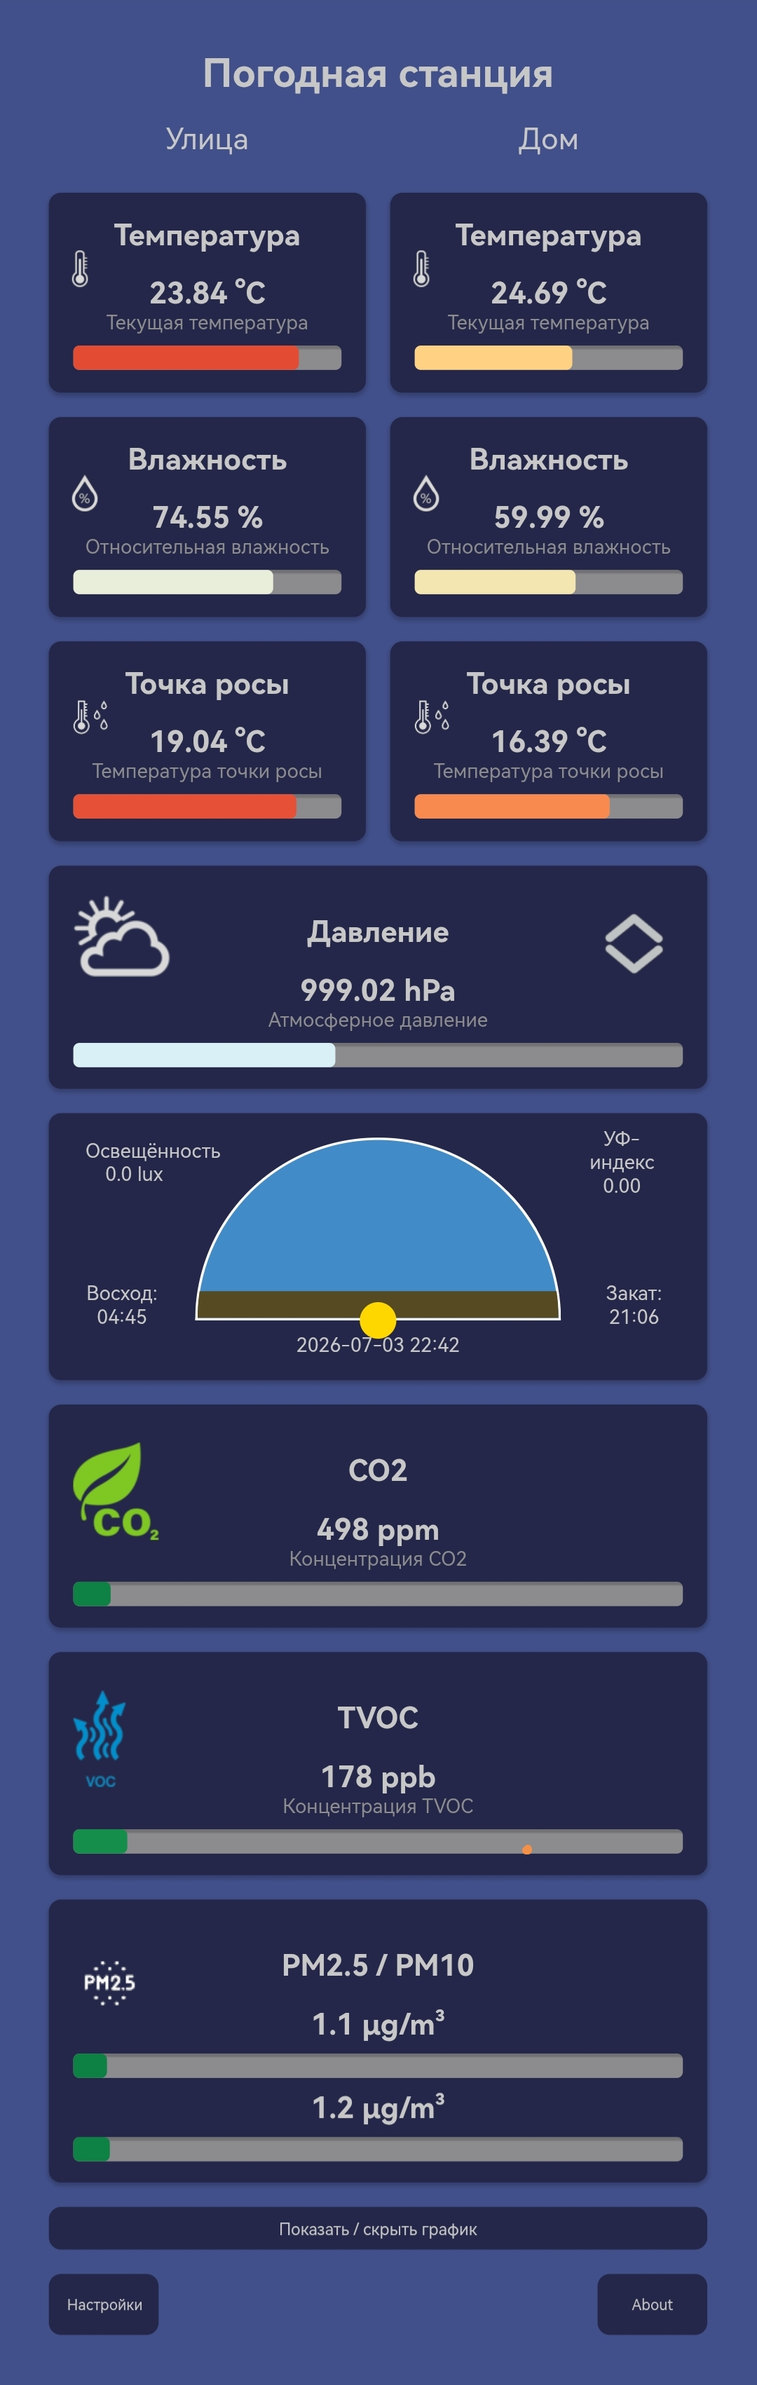
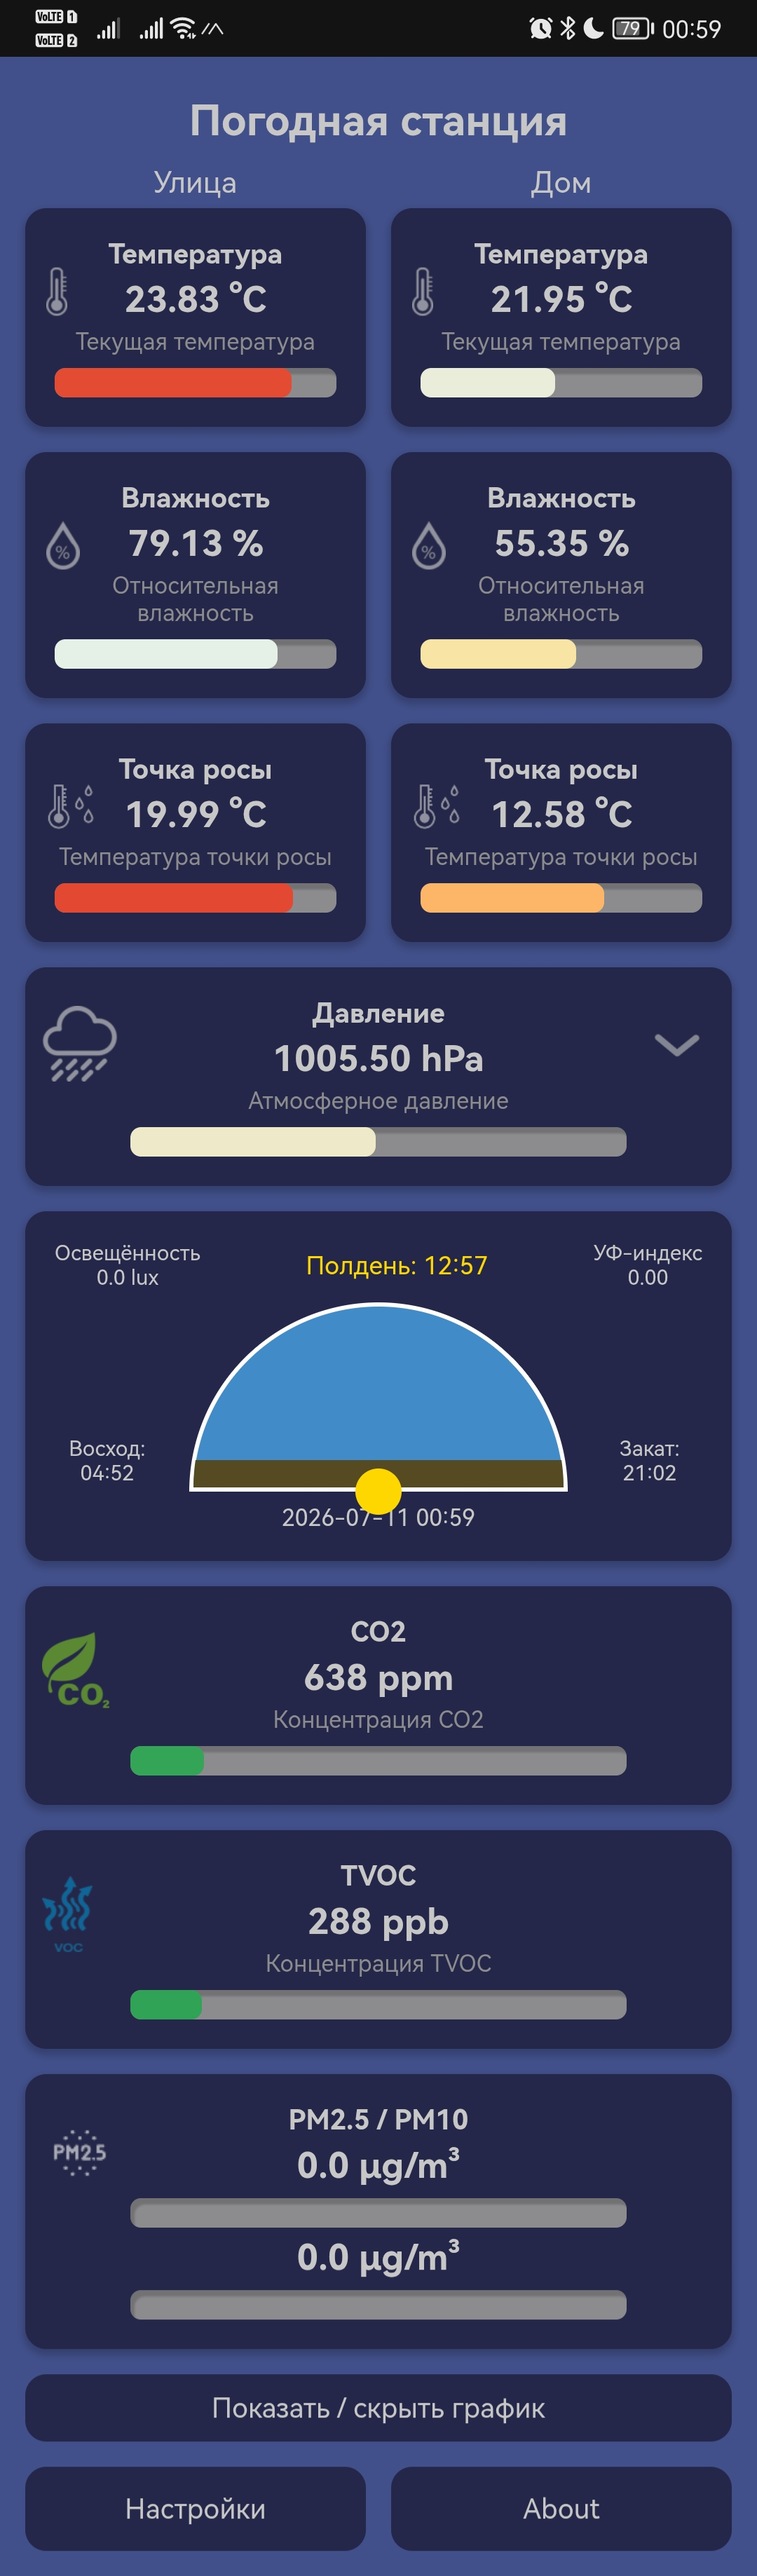
Update photo and screenshots

diff --git a/README.MD b/README.MD
@@ -110,7 +110,7 @@
 
 ### Веб-интерфейс
 
-![Главная страница](index.jpg)
+<img src="index.jpg" alt="Главная страница" width="300">
 
 Главная страница отображает все измерения в реальном времени:
 
@@ -125,7 +125,7 @@
 
 ### Административная панель
 
-![Страница настроек](admin.jpg)
+<img src="admin.jpg" alt="Страница настроек" width="300">
 
 Доступ защищён Basic Authentication.
 
@@ -137,6 +137,7 @@
 - диагностика радиомодуля nRF905;
 - настройка nRF905 (канал, диапазон, мощность) с сохранением в NVS;
 - системные настройки (WiFi, InfluxDB, NTP, координаты, статический IP) с сохранением в NVS;
+- внесение поправок в температуру и установка высоты станции;
 - сброс NVS до заводских настроек;
 - предупреждение о нехватке памяти (LOW MEMORY);
 - перезапуск устройства;
